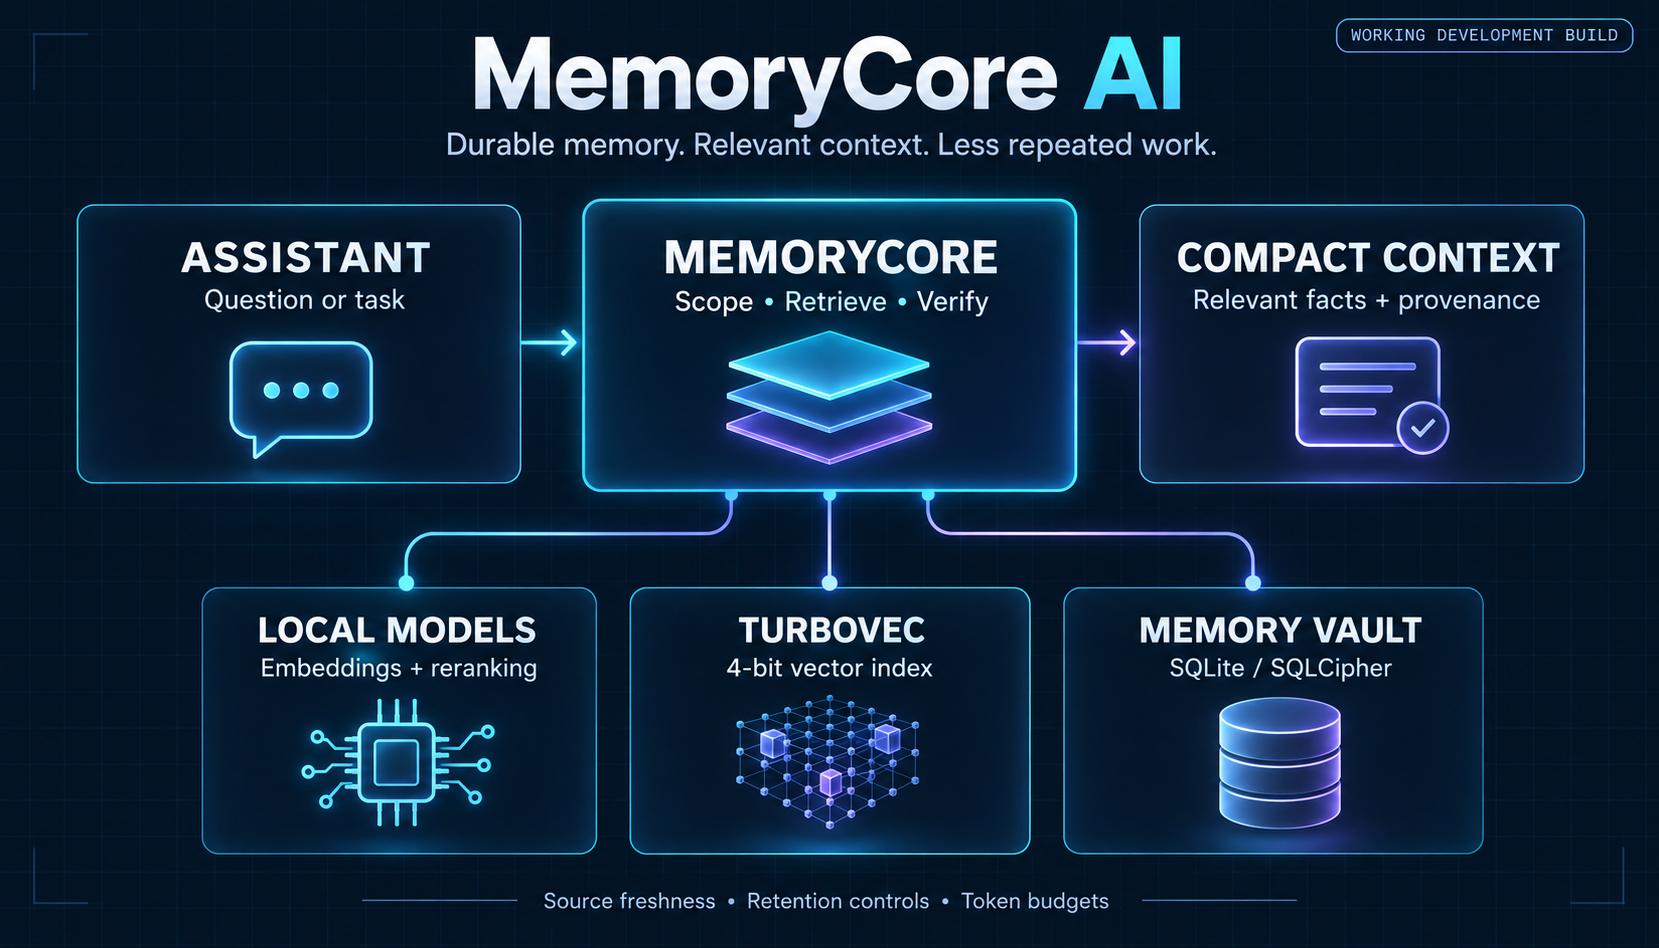
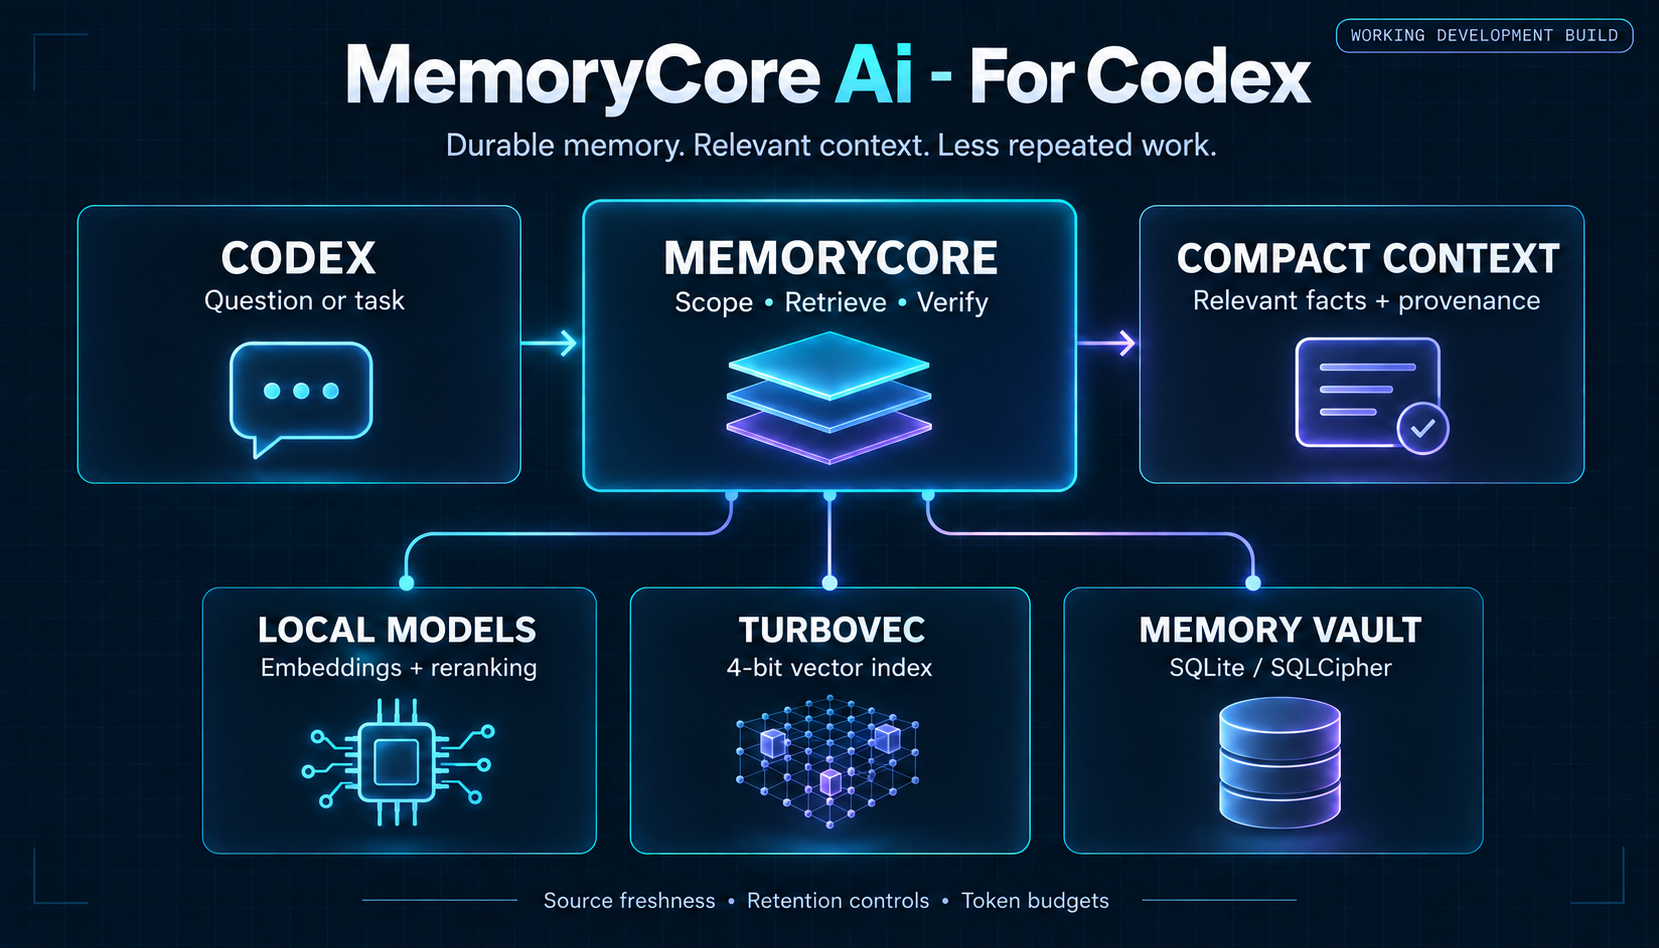
Brand MemoryCore for Codex and improve GitHub discovery

diff --git a/README.md b/README.md
@@ -1,16 +1,24 @@
-# MemoryCore AI
+# MemoryCore Ai - For Codex
 
-[![MemoryCore AI architecture: an assistant sends a question to MemoryCore, which uses local embedding and reranking models, a TurboVec four-bit vector index and a SQLite or SQLCipher vault to return compact context with relevant facts and provenance.](docs/assets/memorycore-architecture.png)](docs/ARCHITECTURE.md)
+[![MemoryCore Ai - For Codex architecture: Codex sends a question to MemoryCore, which uses local embedding and reranking models, a TurboVec four-bit vector index and a SQLite or SQLCipher vault to return compact context with relevant facts and provenance.](docs/assets/memorycore-architecture.png)](docs/ARCHITECTURE.md)
 
-**Durable memory. Relevant context. Less repeated work.**
+**Local persistent memory for Codex. Relevant context. Less repeated work.**
 
 [![Development](https://img.shields.io/badge/stage-working%20development%20build-orange)](#development-stage)
-[![CI](https://github.com/ufo8mycow14/memorycore-ai/actions/workflows/ci.yml/badge.svg)](https://github.com/ufo8mycow14/memorycore-ai/actions/workflows/ci.yml)
+[![CI](https://github.com/ufo8mycow14/memorycore-ai-for-codex/actions/workflows/ci.yml/badge.svg)](https://github.com/ufo8mycow14/memorycore-ai-for-codex/actions/workflows/ci.yml)
 [![Licence: Apache 2.0](https://img.shields.io/badge/licence-Apache%202.0-blue)](LICENSE)
 
-I’m building MemoryCore AI to give assistants useful, durable memory while reducing the tokens wasted on repeatedly loading history, rediscovering decisions and carrying irrelevant context into the next task.
+I’m building **MemoryCore Ai - For Codex**, a **local persistent memory system for OpenAI Codex** with a **Model Context Protocol (MCP)** adapter. My goal is better memory for Codex project work and less token wastage from repeatedly loading history, rediscovering decisions and carrying irrelevant context into the next task.
 
 My aim is to remember the right information, retain its source and qualifications, and retrieve only what the current question needs. Memory is useful when it helps work continue accurately; a larger archive alone does not achieve that.
+
+## Why persistent memory for Codex?
+
+I designed MemoryCore around longer-running Codex projects, where decisions, constraints and unfinished work need to remain useful across sessions. Instead of relying on repeated conversation replay, I store reviewed facts with their sources and retrieve a compact packet for the current question.
+
+My approach combines **Codex memory through MCP**, **semantic search with TurboVec**, source freshness checks and explicit retention controls. I keep raw storage compression separate from **token efficiency**: the important result is less repeated context without losing the evidence needed to work accurately.
+
+I maintain this as an independent project for Codex workflows. The implementation and integration limits below describe what is actually available.
 
 ## Development stage
 
@@ -18,7 +26,7 @@ I have a working development implementation, with a Rust storage broker, a Pytho
 
 I’m inviting help with testing, portability, retrieval quality, documentation and integration. I currently limit this build to **synthetic data**. It is not a production release, a hosted service or a turnkey replacement for a client’s internal memory.
 
-## What I’m building
+## What MemoryCore adds to a Codex workflow
 
 | Capability | What the current implementation provides |
 | --- | --- |
@@ -35,7 +43,7 @@ I’m inviting help with testing, portability, retrieval quality, documentation 
 
 I describe the boundaries and relevant source files in the [feature map](docs/FEATURES.md).
 
-## How it works under the hood
+## How MemoryCore works with Codex
 
 I use **Rust/Tokio** for the native broker, **SQLite/SQLCipher** for durable storage, **local ONNX models** for embeddings and reranking, and **TurboVec 1.0.0** for the four-bit vector search index. TurboVec remains a mandatory native dependency. It shortlists possible matches; current source, version and lifecycle checks decide which evidence is eligible to return.
 
@@ -48,15 +56,23 @@ I keep the technical details in linked guides with source references:
 
 I distinguish compressed storage bytes, compact vector indexes and reduced prompt context. Each has a different cost and must be measured separately.
 
+## Codex MCP integration
+
+I provide a local stdio MCP adapter that exposes one compact `memory` tool to a configured Codex session. The host binds the session to its scope and source root, while the Rust broker checks memory operations. The Python host adds local embeddings and reranking; the monitored adapter records operational counts without storing recalled text in its metrics log.
+
+For a development trial, I start with the [synthetic setup guide](docs/GETTING_STARTED.md), build the native broker, provision reviewed local models, and configure the adapter for a dedicated synthetic project. The [interface guide](docs/INTERFACES.md) shows the session boundary and distinguishes MCP requests from raw broker requests.
+
+The repository includes `scripts/setup_local_rollout.py` for an explicit Windows Codex configuration workflow. I describe its changes in the setup guide before recommending its use. MCP access does not automatically import existing Codex conversations, replace Codex platform history or supply native chat lifecycle events.
+
 ## How I intend it to be used
 
-I designed this for long-running project work: preserving decisions between sessions, recalling relevant constraints, checking the evidence behind a remembered fact, and resuming unfinished work without repeatedly replaying whole conversations.
+I designed this for long-running Codex project work: preserving reviewed decisions between sessions, recalling relevant constraints, checking the evidence behind a remembered fact, and preparing continuity context without repeatedly replaying whole conversations.
 
 For example, a project can retain a reviewed deployment decision and its source. A later session asks for the deployment region and receives a compact, scoped answer. If that source changes, the old fact is excluded until it is reviewed again.
 
 I also want MemoryCore AI to be a useful workbench for comparing memory strategies fairly. Small tasks may be cheaper to handle by reading the source directly. Memory acquisition, review, retrieval and maintenance all have costs.
 
-## Reducing token wastage
+## Codex memory and token efficiency
 
 I target four avoidable costs:
 
@@ -75,7 +91,7 @@ I count token reduction as useful only when the answer remains correct and the f
 | Rust | Native broker; Cargo lockfile included. Windows development has used Rust 1.98.0. |
 | SQLite / SQLCipher | Local persistence; encryption requires the SQLCipher feature and explicit key configuration. |
 | MCP over stdio | Dedicated, host-configured local adapter exposing one compact `memory` tool. Client compatibility still needs validation. |
-| Codex | A local configuration helper and MCP adapter exist. I do not claim automatic chat capture or control over platform history. |
+| OpenAI Codex | Primary intended client, through the local MCP adapter and explicit configuration helper. Automatic chat capture and control over platform history are not implemented. |
 | Graphify, GitNexus, Serena | Experimental code-context adapters with contract tests; not blanket certification of live third-party integrations. |
 | Windows | Primary development and local validation platform. Linux and macOS support need independent acceptance testing. |
 
@@ -86,6 +102,8 @@ I document setup choices and integration limits in [getting started](docs/GETTIN
 From a clone of this repository, with Python 3.12+:
 
 ```sh
+git clone https://github.com/ufo8mycow14/memorycore-ai-for-codex.git
+cd memorycore-ai-for-codex
 python -m venv .venv
 # Activate .venv using the command for your shell.
 python -m pip install -r requirements-test.txt
@@ -97,7 +115,7 @@ I keep the [complete synthetic CLI walkthrough](references/operations.md) execut
 
 ## Help me improve it
 
-I welcome focused pull requests, reproducible bugs, documentation improvements and careful evaluation. Good starting areas include clean-machine setup, cross-platform validation, retrieval cases with negation or conflicting evidence, and complete token accounting.
+I welcome focused pull requests, reproducible bugs, documentation improvements and careful evaluation. Good starting areas include Codex MCP setup, cross-platform validation, retrieval cases with negation or conflicting evidence, and complete token accounting for Codex workflows.
 
 Please start with [contributing](CONTRIBUTING.md), the [development priorities](docs/ROADMAP.md), and my [security policy](SECURITY.md). I review changes through pull requests; contributing does not require write or administrator access to this repository.
 

diff --git a/docs/ARCHITECTURE.md b/docs/ARCHITECTURE.md
@@ -1,10 +1,10 @@
-# How MemoryCore AI works
+# How MemoryCore Ai - For Codex works
 
 I built MemoryCore AI around a simple goal: retain useful evidence outside the active conversation, then return the smallest relevant context that preserves its meaning. I separate durable storage, search, local inference and the client-facing interface so their responsibilities and costs are visible.
 
 This guide describes the published native **0.5.0-dev** and Python/reference **0.10.0-dev** implementation. I still require synthetic data. Implemented mechanisms are not a claim of production readiness.
 
-![Overview: the assistant asks MemoryCore for compact context; local models, TurboVec and the memory vault support retrieval and verification.](assets/memorycore-architecture.png)
+![Overview: Codex asks MemoryCore for compact context; local models, TurboVec and the memory vault support retrieval and verification.](assets/memorycore-architecture.png)
 
 I group the host and broker under “MemoryCore” in this overview. The detailed component diagram below separates them.
 
@@ -12,7 +12,7 @@ I group the host and broker under “MemoryCore” in this overview. The detaile
 
 ```mermaid
 flowchart TD
-    Client[Trusted local assistant client] --> MCP[Fixed-session stdio MCP adapter]
+    Client[Codex as the trusted local client] --> MCP[Fixed-session stdio MCP adapter]
     MCP --> Host[Python semantic host]
     Host --> Models[Local ONNX embedding and reranking models]
     Host --> Broker[Rust broker and worker processes]

diff --git a/SECURITY.md b/SECURITY.md
@@ -4,7 +4,7 @@ I currently support this project as developmental, synthetic-only software. I do
 
 ## Reporting a vulnerability
 
-Please use [GitHub private vulnerability reporting](https://github.com/ufo8mycow14/memorycore-ai/security/advisories/new). I ask for affected versions, a minimal synthetic reproduction, expected behaviour and the security impact. Please do not put exploitable details or private payloads in a public issue.
+Please use [GitHub private vulnerability reporting](https://github.com/ufo8mycow14/memorycore-ai-for-codex/security/advisories/new). I ask for affected versions, a minimal synthetic reproduction, expected behaviour and the security impact. Please do not put exploitable details or private payloads in a public issue.
 
 I review reports as a community maintainer and cannot promise a fixed response or remediation deadline.
 

diff --git a/docs/GETTING_STARTED.md b/docs/GETTING_STARTED.md
@@ -1,4 +1,4 @@
-# Getting started
+# Getting started with MemoryCore for Codex
 
 I recommend starting with the Python reference workflow, then adding the native runtime and semantic models as separate steps. I require synthetic fixtures and explicit disposable paths throughout.
 
